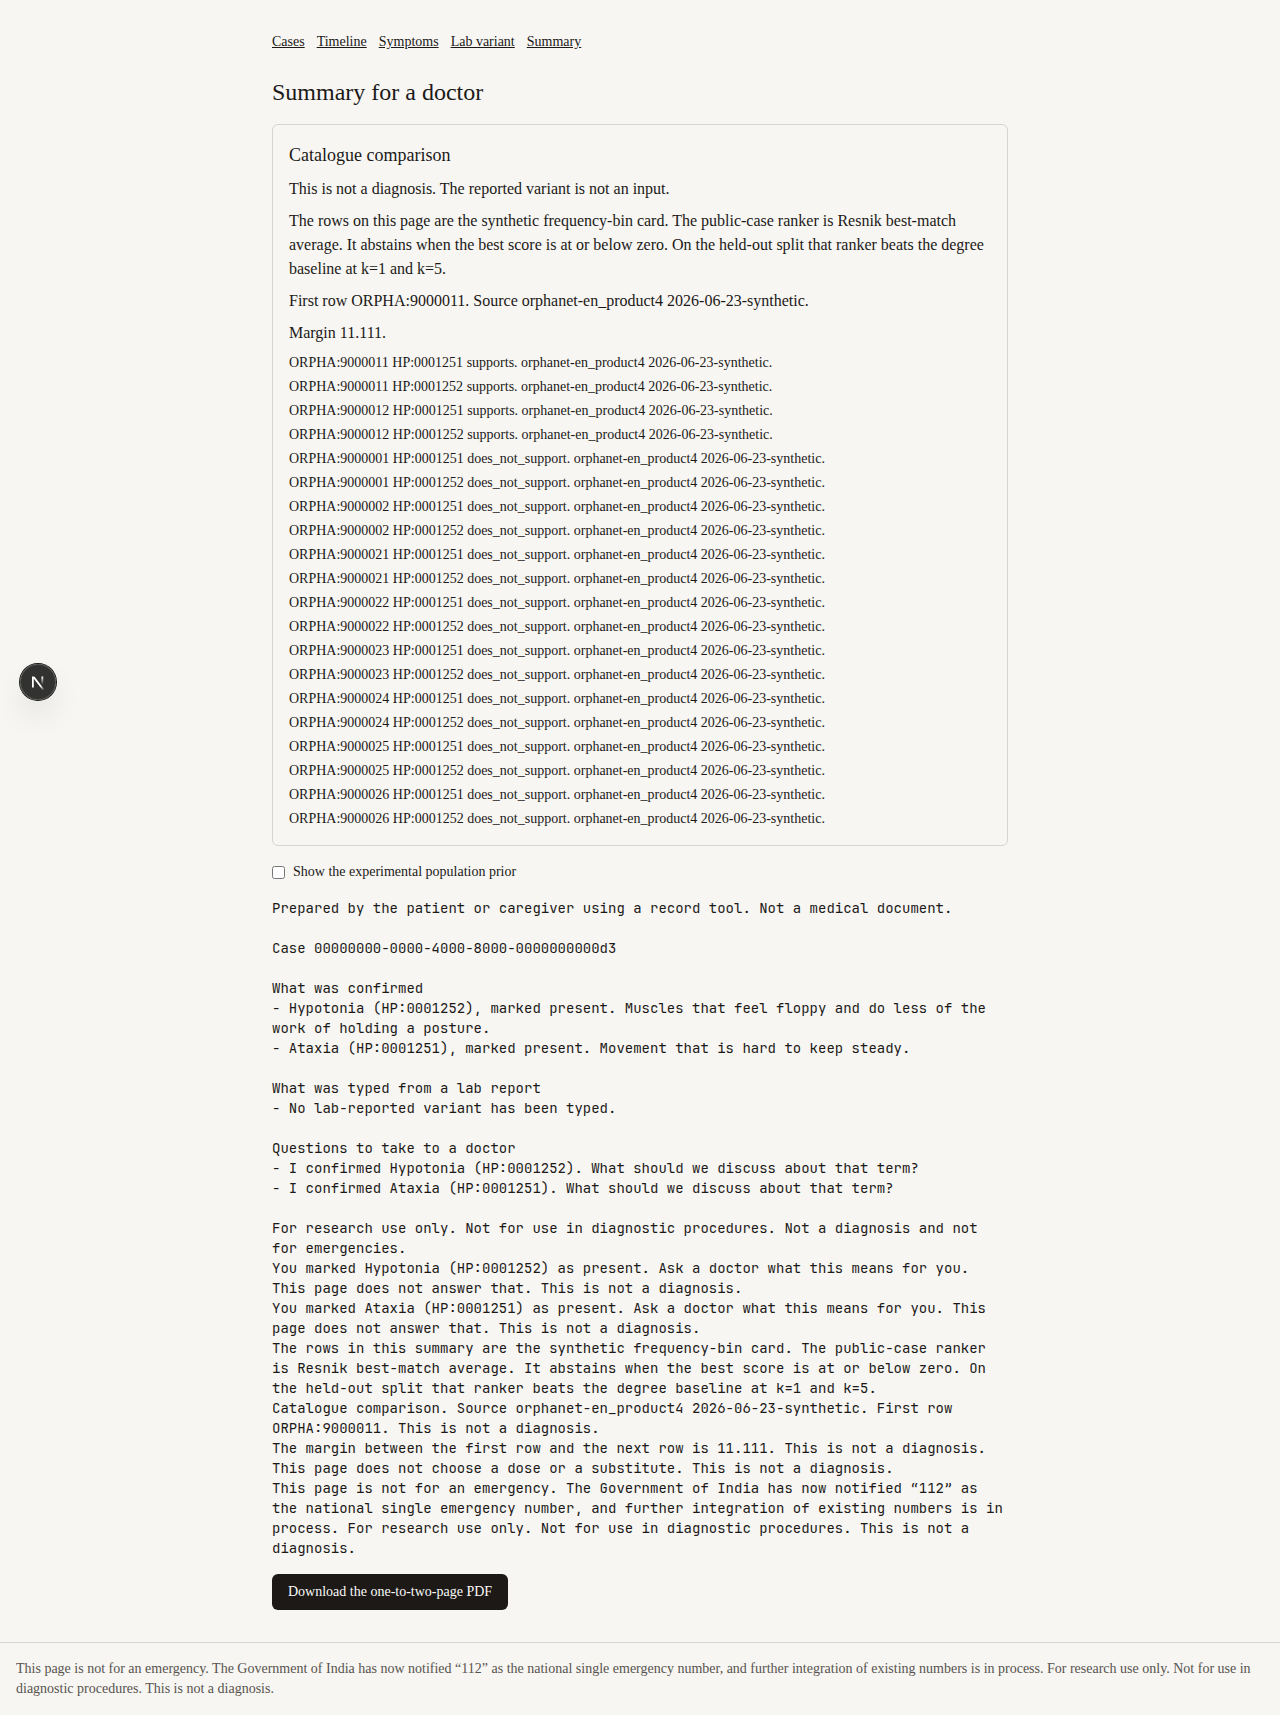
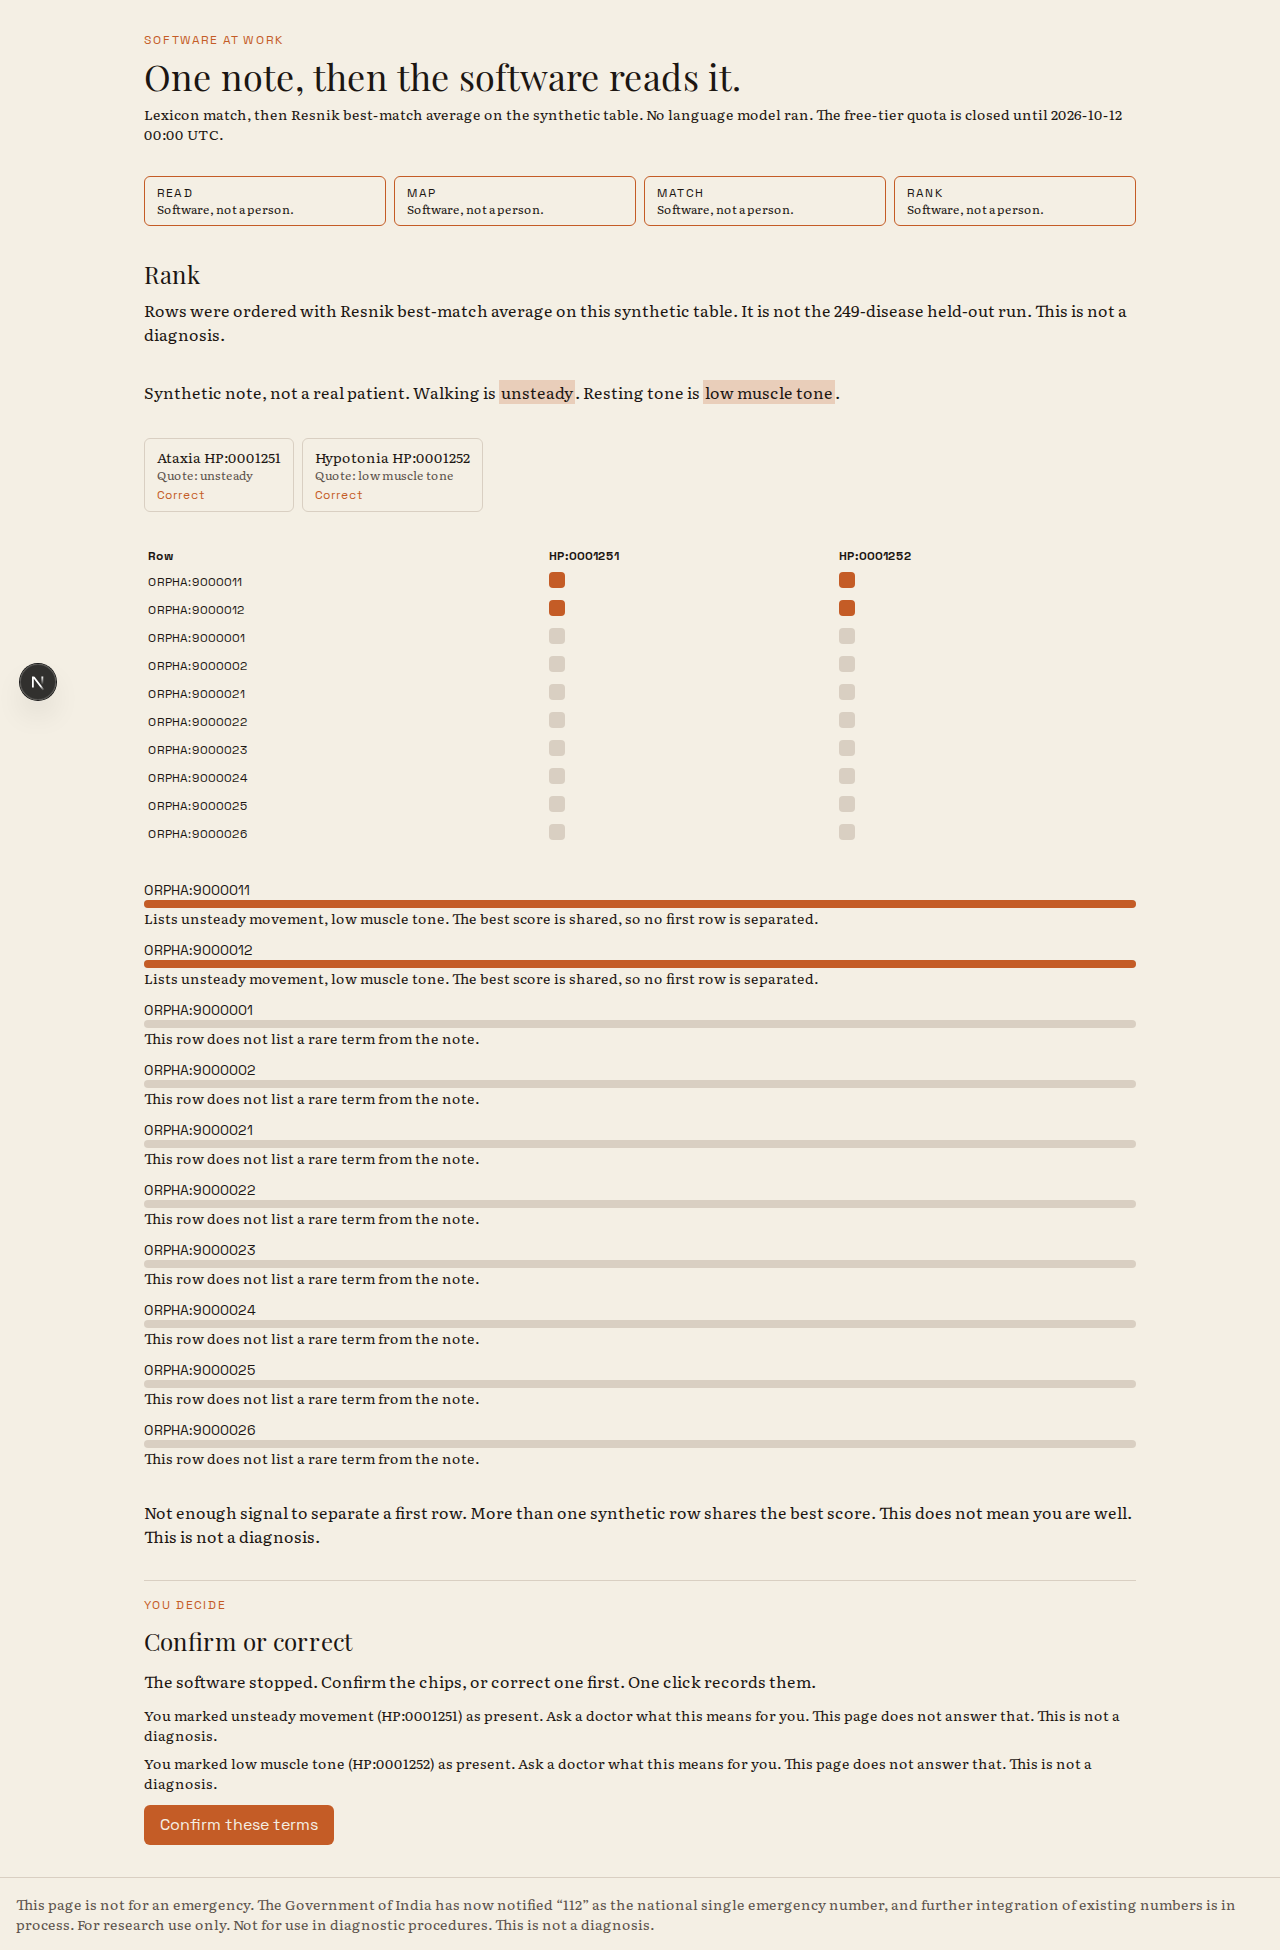
Record the one-step browser path.
Playwright now picks a synthetic note, waits for Read, Map, Match, and Rank, and confirms through the gate. The screenshots match that screen.

diff --git a/apps/web/e2e/demo.spec.ts b/apps/web/e2e/demo.spec.ts
@@ -7,11 +7,11 @@ test("one step, then the software reads a synthetic note", async ({ page }) => {
   await page.goto("/");
   await expect(page.getByLabel("Your name for this notebook")).toHaveCount(0);
   await expect(page.getByRole("heading", { name: "Pick a note. The software does the rest." })).toBeVisible();
-  await expect(page.getByRole("link", { name: /Separated rows/ })).toBeVisible();
+  await expect(page.getByRole("link", { name: /^Separated rows/ })).toBeVisible();
   await expect(page.getByRole("contentinfo")).toContainText("112");
   await page.screenshot({ path: path.join(shots, "01-cases.png"), fullPage: true });
 
-  await page.getByRole("link", { name: /Separated rows/ }).click();
+  await page.getByRole("link", { name: /^Separated rows/ }).click();
   await expect(page.getByTestId("method")).toContainText("No language model ran");
   await expect(page.getByTestId("stage-read")).toContainText("Read");
   await expect(page.getByTestId("stage-map")).toContainText("Map");
@@ -55,7 +55,7 @@ test("one step, then the software reads a synthetic note", async ({ page }) => {
   await page.screenshot({ path: path.join(shots, "06-limits.png"), fullPage: true });
 
   await page.goto("/");
-  await page.getByLabel("Synthetic note").fill("Unconsciousness.");
+  await page.getByRole("textbox", { name: "Synthetic note" }).fill("Unconsciousness.");
   await page.getByRole("button", { name: "Read this note" }).click();
   await expect(page.getByTestId("stop")).toContainText("Stop");
   await expect(page.getByTestId("stop")).toContainText("Unconsciousness");

diff --git a/docs/FINISH-report.md b/docs/FINISH-report.md
@@ -4,7 +4,7 @@ For research use only. Not for use in diagnostic procedures.
 
 This notebook is a synthetic case file. It does not diagnose. `make demo` resets the local database and opens the one-step notebook at <http://127.0.0.1:3000>.
 
-Pull request #9 is the finish PR for the whole app. Its base is `main`. It is not a draft. The head branch is `cursor/finish-odyssey-demo-79af`.
+Pull request #9 is the finish PR for the whole app. Its base is `main`. It is not a draft. The head branch is `cursor/finish-odyssey-demo-79af`. Pull request #11 is the one-step landing. Its base is the finish branch. Its head is `design/editorial-landing`.
 
 The multi-omics slice is the opt-in allele-frequency prior in `services/api/app/data/allele_frequencies.json` (`NM_000138.5:c.1A>G`, 0.00012, source `fixture-allele-frequency`). It is experimental and non-diagnostic. This build did not call gnomAD or ClinVar. The prior does not change the catalogue comparison. No model is used for it.
 
@@ -68,8 +68,8 @@ The comparison panel states that the rows on the page are the synthetic frequenc
 
 ## Measured on this revision
 
-- `make test`: 239 passed, 1 skipped. The skipped test is the opt-in live model smoke. It was not run. The OpenAPI drift tests passed in this run. Gemini-to-OpenRouter `:free` coverage is the stubbed 429 tests only.
-- Cold `make e2e`: 1 passed (11.3s). The comparison panel shows the public-case ranker sentence. The abstain page does not show a numeric margin.
+- `make test`: 243 passed, 1 skipped. The skipped test is the opt-in live model smoke. It was not run. The OpenAPI drift tests passed in this run. Gemini-to-OpenRouter `:free` coverage is the stubbed 429 tests only.
+- Cold `make e2e`: 1 passed (23.9s). The landing has no sign-in wall. Separated rows ends on ORPHA:9000001, a confirm click, and reviewer `synthetic-reader`. The seizure-only case and the stable pair say not enough signal. A pasted "Unconsciousness." shows the stop screen.
 - `d1_eval heldout`: exit 0. Resnik best-match average on the 925 test packets beats the degree baseline at k=1 (419/925 vs 327/925) and at k=5 (614/925 vs 533/925). Frequency-bin packet top-1 stays 1395/4815 and does not beat the degree baseline.
 
 ## Contract, prior, and model client
